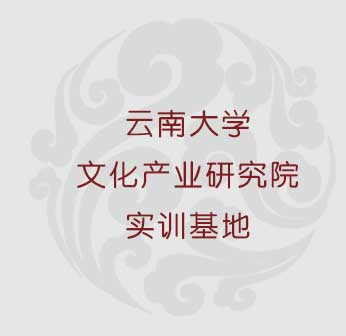
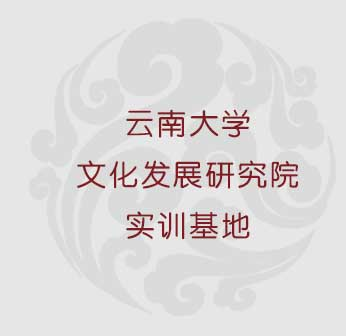
更换错误图片，删除导航滤镜

Changed region(s): [[0.4046, 0.4762, 0.578, 0.5655]]

diff --git a/blue/css/main.css b/blue/css/main.css
@@ -60,8 +60,9 @@ backgrounde:none\9;
 filter:progid:DXImageTransform.Microsoft.AlphaImageLoader(src='img/top12.jpg', sizingMethod='scale')\9;-webkit-background-size: cover;-moz-background-size: cover;}
 
 /*中英文*/
-.header #zh-CN{position:relative; top:94px;left:54px;}
-.header #Eng{position:relative;top:94px;left:62px;}
+.header #zh-CN{position:relative; top:94px;left:58px;font-size:12px;}
+.header #Eng{position:relative;top:94px;left:62px;font-size:12px;}
+
 
 /*导航*/
 .navbar{width:1200px;margin:0 auto;}
@@ -81,7 +82,7 @@ filter:progid:DXImageTransform.Microsoft.AlphaImageLoader(src='img/nav-right.jpg
 .mainNav #menu2{ width:69px;margin-left:6px;}
 .mainNav li a,.mainNav li a:visited{color:#fff;height:24px;line-height:24px;text-align:center;display:inline-block;}
 .mainNav li a:hover,.mainNav li.active a{color:#FF7300;text-decoration:none;}
-.mainNav li dl{position:absolute;display:none;left:0;top:10px;padding:10px;background:#0469a9;filter:alpha(opacity=80);opacity:0.8;z-index:9999999;}
+.mainNav li dl{position:absolute;display:none;left:0;top:10px;padding:10px;background:#0469a9;z-index:9999999;}
 .mainNav li dl dd{width:100px;height:25px;line-height:25px;text-align:left;white-space:nowrap;margin:0px;padding:0px;}
 .mainNav li dl dd a{font-size:13px;} 
 .mainNav li.active dl dd a{font-size:13px;background:none;color:#FFFFFF;}

diff --git a/red/css/main.css b/red/css/main.css
@@ -60,8 +60,8 @@ backgrounde:none\9;
 filter:progid:DXImageTransform.Microsoft.AlphaImageLoader(src='img/top12.jpg', sizingMethod='scale')\9;-webkit-background-size: cover;-moz-background-size: cover;}
 
 /*中英文*/
-.header #zh-CN{position:relative; top:94px;left:54px;}
-.header #Eng{position:relative;top:94px;left:62px;}
+.header #zh-CN{position:relative; top:94px;left:58px;font-size:12px;}
+.header #Eng{position:relative;top:94px;left:62px;font-size:12px;}
 
 /*导航*/
 .navbar{width:1200px;margin:0 auto;}
@@ -81,7 +81,7 @@ filter:progid:DXImageTransform.Microsoft.AlphaImageLoader(src='img/nav-right.jpg
 .mainNav #menu2{ width:69px;margin-left:6px;}
 .mainNav li a,.mainNav li a:visited{color:#fff;height:24px;line-height:24px;text-align:center;display:inline-block;}
 .mainNav li a:hover,.mainNav li.active a{color:#FF7300;text-decoration:none;}
-.mainNav li dl{position:absolute;display:none;left:0;top:10px;padding:10px;background:#0469a9;filter:alpha(opacity=80);opacity:0.8;z-index:9999999;}
+.mainNav li dl{position:absolute;display:none;left:0;top:10px;padding:10px;background:#0469a9;z-index:9999999;}
 .mainNav li dl dd{width:100px;height:25px;line-height:25px;text-align:left;white-space:nowrap;margin:0px;padding:0px;}
 .mainNav li dl dd a{font-size:13px;} 
 .mainNav li.active dl dd a{font-size:13px;background:none;color:#FFFFFF;}
